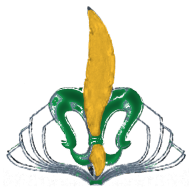
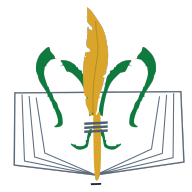
Redesign emblem: clean vector redraw traced from official pin and print

Changed region(s): [[0.0312, 0.0312, 0.9688, 0.9688]]

diff --git a/index.html b/index.html
@@ -4,9 +4,9 @@
 <meta charset="UTF-8">
 <meta name="viewport" content="width=device-width, initial-scale=1, viewport-fit=cover">
 <title>טבלת צדק</title>
-<link rel="icon" type="image/png" sizes="32x32" href="favicon-32.png?v=6">
-<link rel="icon" type="image/png" sizes="192x192" href="icon-192.png?v=6">
-<link rel="apple-touch-icon" href="apple-touch-icon.png?v=6">
+<link rel="icon" type="image/png" sizes="32x32" href="favicon-32.png?v=7">
+<link rel="icon" type="image/png" sizes="192x192" href="icon-192.png?v=7">
+<link rel="apple-touch-icon" href="apple-touch-icon.png?v=7">
 <link rel="preconnect" href="https://fonts.googleapis.com">
 <link rel="preconnect" href="https://fonts.gstatic.com" crossorigin>
 <link href="https://fonts.googleapis.com/css2?family=Rubik:wght@400;500;600;700;800&display=swap" rel="stylesheet">
@@ -104,7 +104,7 @@
 
   <header class="card">
     <a class="logo-link" href="https://etrog-lv-tama.github.io/" aria-label="סמל קורס אתרוג ל״ו · לדף הבית של המגמה">
-      <img src="logo.png?v=6" alt="סמל קורס אתרוג ל״ו">
+      <img src="logo.png?v=7" alt="סמל קורס אתרוג ל״ו">
     </a>
     <h1>טבלת צדק</h1>
     <div class="sub">מחזור ל״ו · מי עשה, מי משובץ, וכמה יוצא לכל אחד</div>
